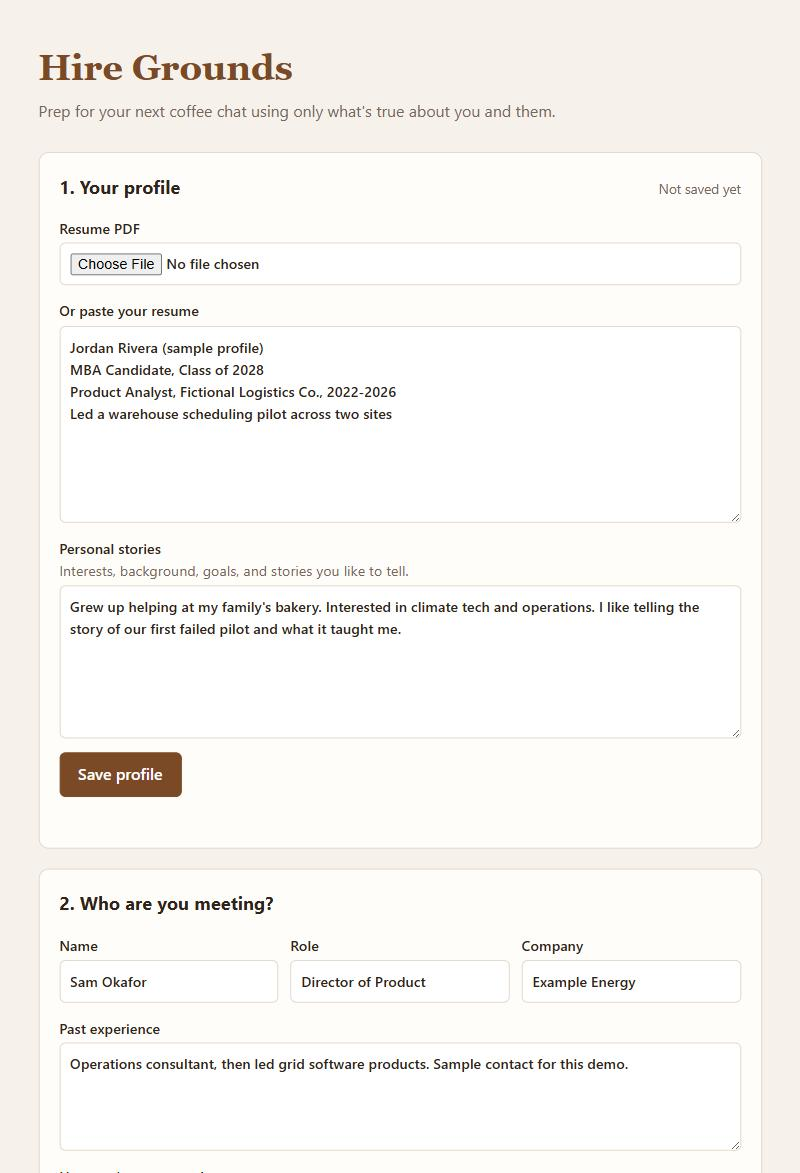
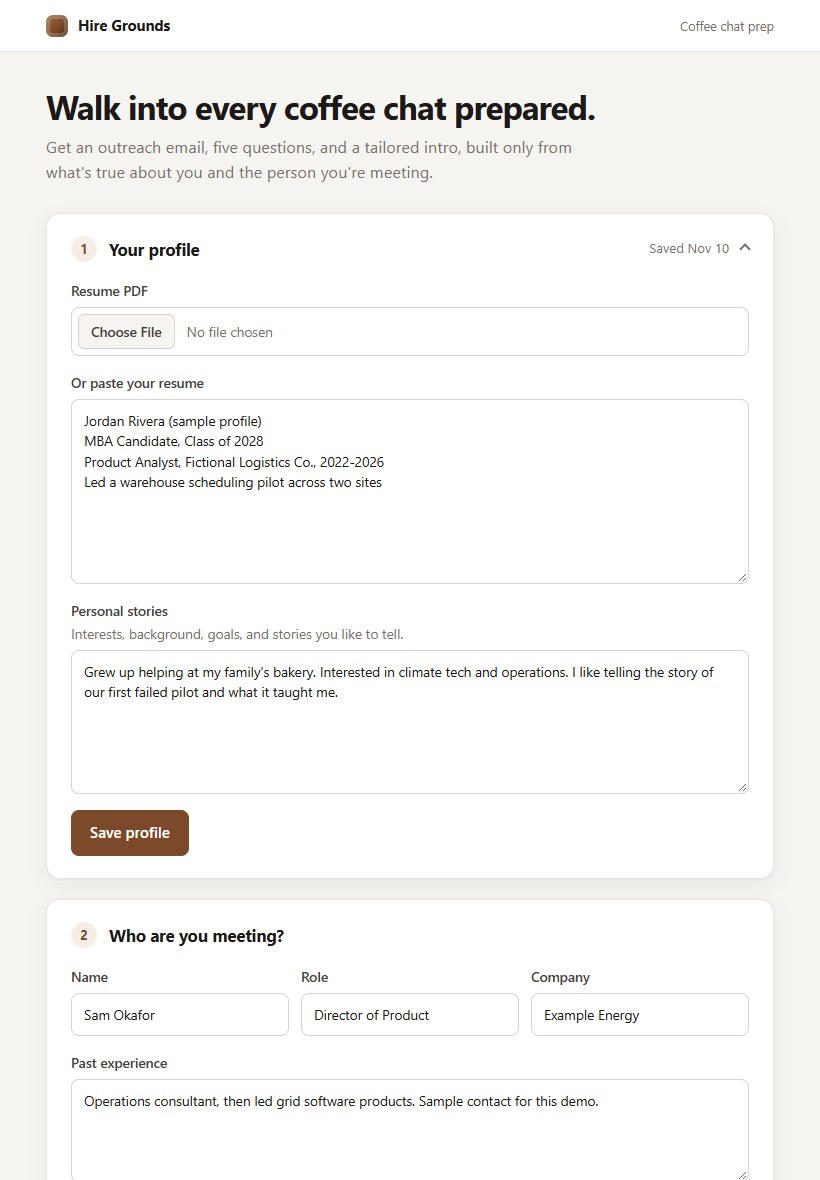
Add real output screenshot and run cost to product page

diff --git a/docs/index.html b/docs/index.html
@@ -158,11 +158,15 @@
       <h2>Product Showcase (Prototype / Live App / 2-Min Video)</h2>
       <p>
         <strong>Current Status:</strong> Build 1: Local Prototype<br />
-        <strong>Demo:</strong> Hire Grounds local prototype screenshot below; add the live cloud app URL in Build 5.
+        <strong>Demo:</strong> Hire Grounds local prototype screenshots below: real output first, then the input screen. Add the live cloud app URL in Build 5.
       </p>
       <figure style="margin: 16px 0;">
-        <img src="assets/hire-grounds-input.jpg" alt="Hire Grounds local prototype showing the profile and contact forms, filled in with fictional sample data" width="800" height="1173" style="display: block; max-width: 100%; height: auto; border: 1px solid var(--border); border-radius: 8px;" />
-        <figcaption class="meta">Hire Grounds running locally, shown with fictional sample data.</figcaption>
+        <img src="assets/hire-grounds-output.jpg" alt="Hire Grounds output: an overlap check, a 118-word outreach email, and five tailored questions for a sample contact" width="820" height="1180" style="display: block; max-width: 100%; height: auto; border: 1px solid var(--border); border-radius: 8px;" />
+        <figcaption class="meta">Output from a real Claude Opus 5.5 run on Nov 10 (about $0.06), using a fictional sample student and contact.</figcaption>
+      </figure>
+      <figure style="margin: 16px 0;">
+        <img src="assets/hire-grounds-input.jpg" alt="Hire Grounds input screen showing the profile and contact forms, filled in with fictional sample data" width="820" height="1180" style="display: block; max-width: 100%; height: auto; border: 1px solid var(--border); border-radius: 8px;" />
+        <figcaption class="meta">Input screen: your saved profile and the contact's background, shown with fictional sample data.</figcaption>
       </figure>
     </section>
 
@@ -192,11 +196,11 @@
       <div class="grid-2">
         <div class="stat-box">
           <div class="stat-label">Cumulative Build Spend</div>
-          <div class="stat-value">$0.00 (OpenRouter, through Nov 10)</div>
+          <div class="stat-value">$0.06 (Claude API, through Nov 10)</div>
         </div>
         <div class="stat-box">
           <div class="stat-label">Est. Cost Per User Run</div>
-          <div class="stat-value">[Not yet estimated]</div>
+          <div class="stat-value">~$0.06 (Claude Opus 5.5)</div>
         </div>
         <div class="stat-box">
           <div class="stat-label">User Evidence (Analytics from Build 2)</div>
@@ -217,10 +221,10 @@
       <div class="log-entry">
         <h3>Build 1 · Intent.md & Throwaway Prototype (Due Nov 9)</h3>
         <ul>
-          <li><strong>What shipped:</strong> A local Hire Grounds prototype (Node/Express with OpenRouter) that saves a resume and personal stories, takes a contact's background, and is built to generate an outreach email, 5 questions, and 1- and 2-minute intros. Screenshot above.</li>
+          <li><strong>What shipped:</strong> A local Hire Grounds prototype (Node/Express with the Claude API, using Claude Opus 5.5) that saves a resume and personal stories, takes a contact's background, and generates an outreach email, 5 questions, and 1- and 2-minute intros. The code is in the repo's app/ folder. Screenshots above.</li>
           <li><strong>Things learned with AI:</strong> I learned basic terminal commands like pwd, ls, and cd, and the differences between Git and GitHub and between push and pull, through the Claude analogies and quizzes.</li>
-          <li><strong>What broke / changed in PRD:</strong> PDF resume uploads failed at first with a parsing error and needed a fix. PowerShell blocked npm, so I run npm.cmd instead. PRD v1 updates: added the product name and tagline, target user, before and after workflows, core workflow, and three non-goals.</li>
-          <li><strong>Cost & time this week:</strong> $0.00 · 5 hours (0 OpenRouter tokens, no live generations yet; about 162K Claude Code tokens on the Pro plan)</li>
+          <li><strong>What broke / changed in PRD:</strong> PDF resume uploads failed at first with a parsing error and needed a fix. PowerShell blocked npm, so I run npm.cmd instead. PRD v1 updates: added the product name and tagline, target user, before and after workflows, core workflow, and three non-goals. On Nov 10, I switched from OpenRouter to the Claude API (Claude Opus 5.5) and refreshed the app's design.</li>
+          <li><strong>Cost & time this week:</strong> $0.06 · 5 hours (one real Claude Opus 5.5 run on Nov 10: 1,165 input and 2,860 output tokens; about 162K Claude Code tokens on the Pro plan)</li>
         </ul>
       </div>
 
